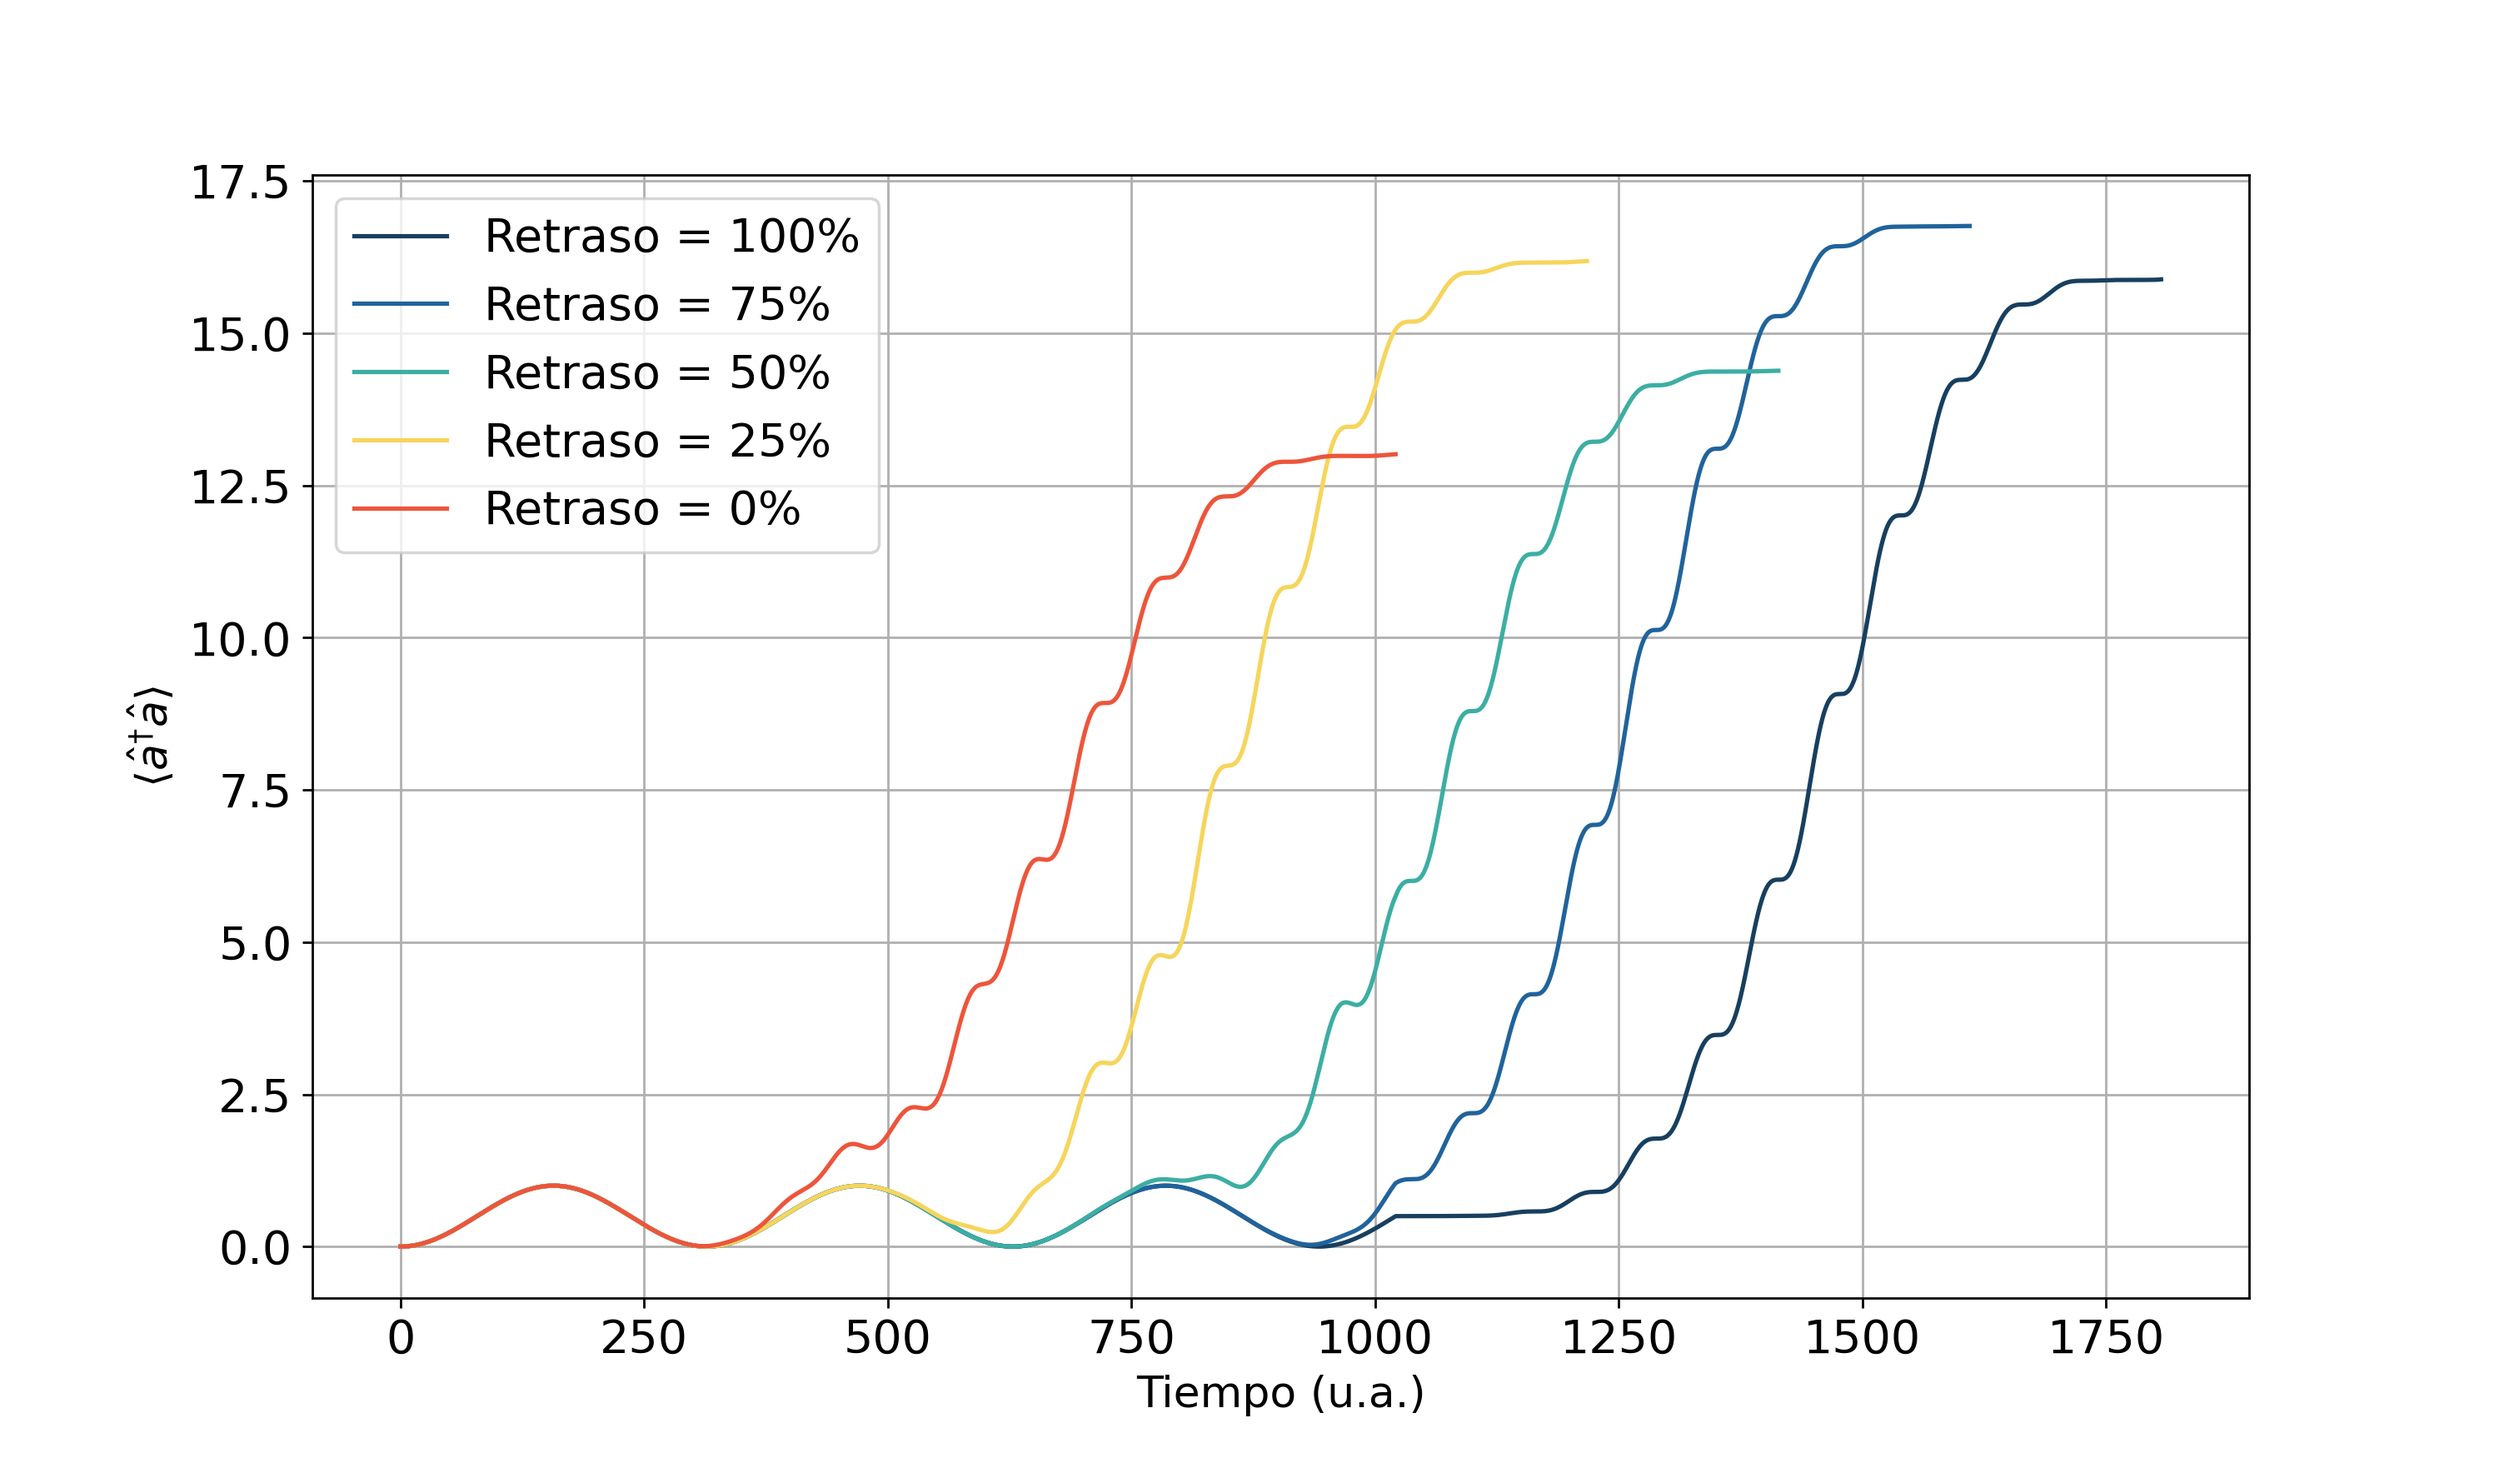
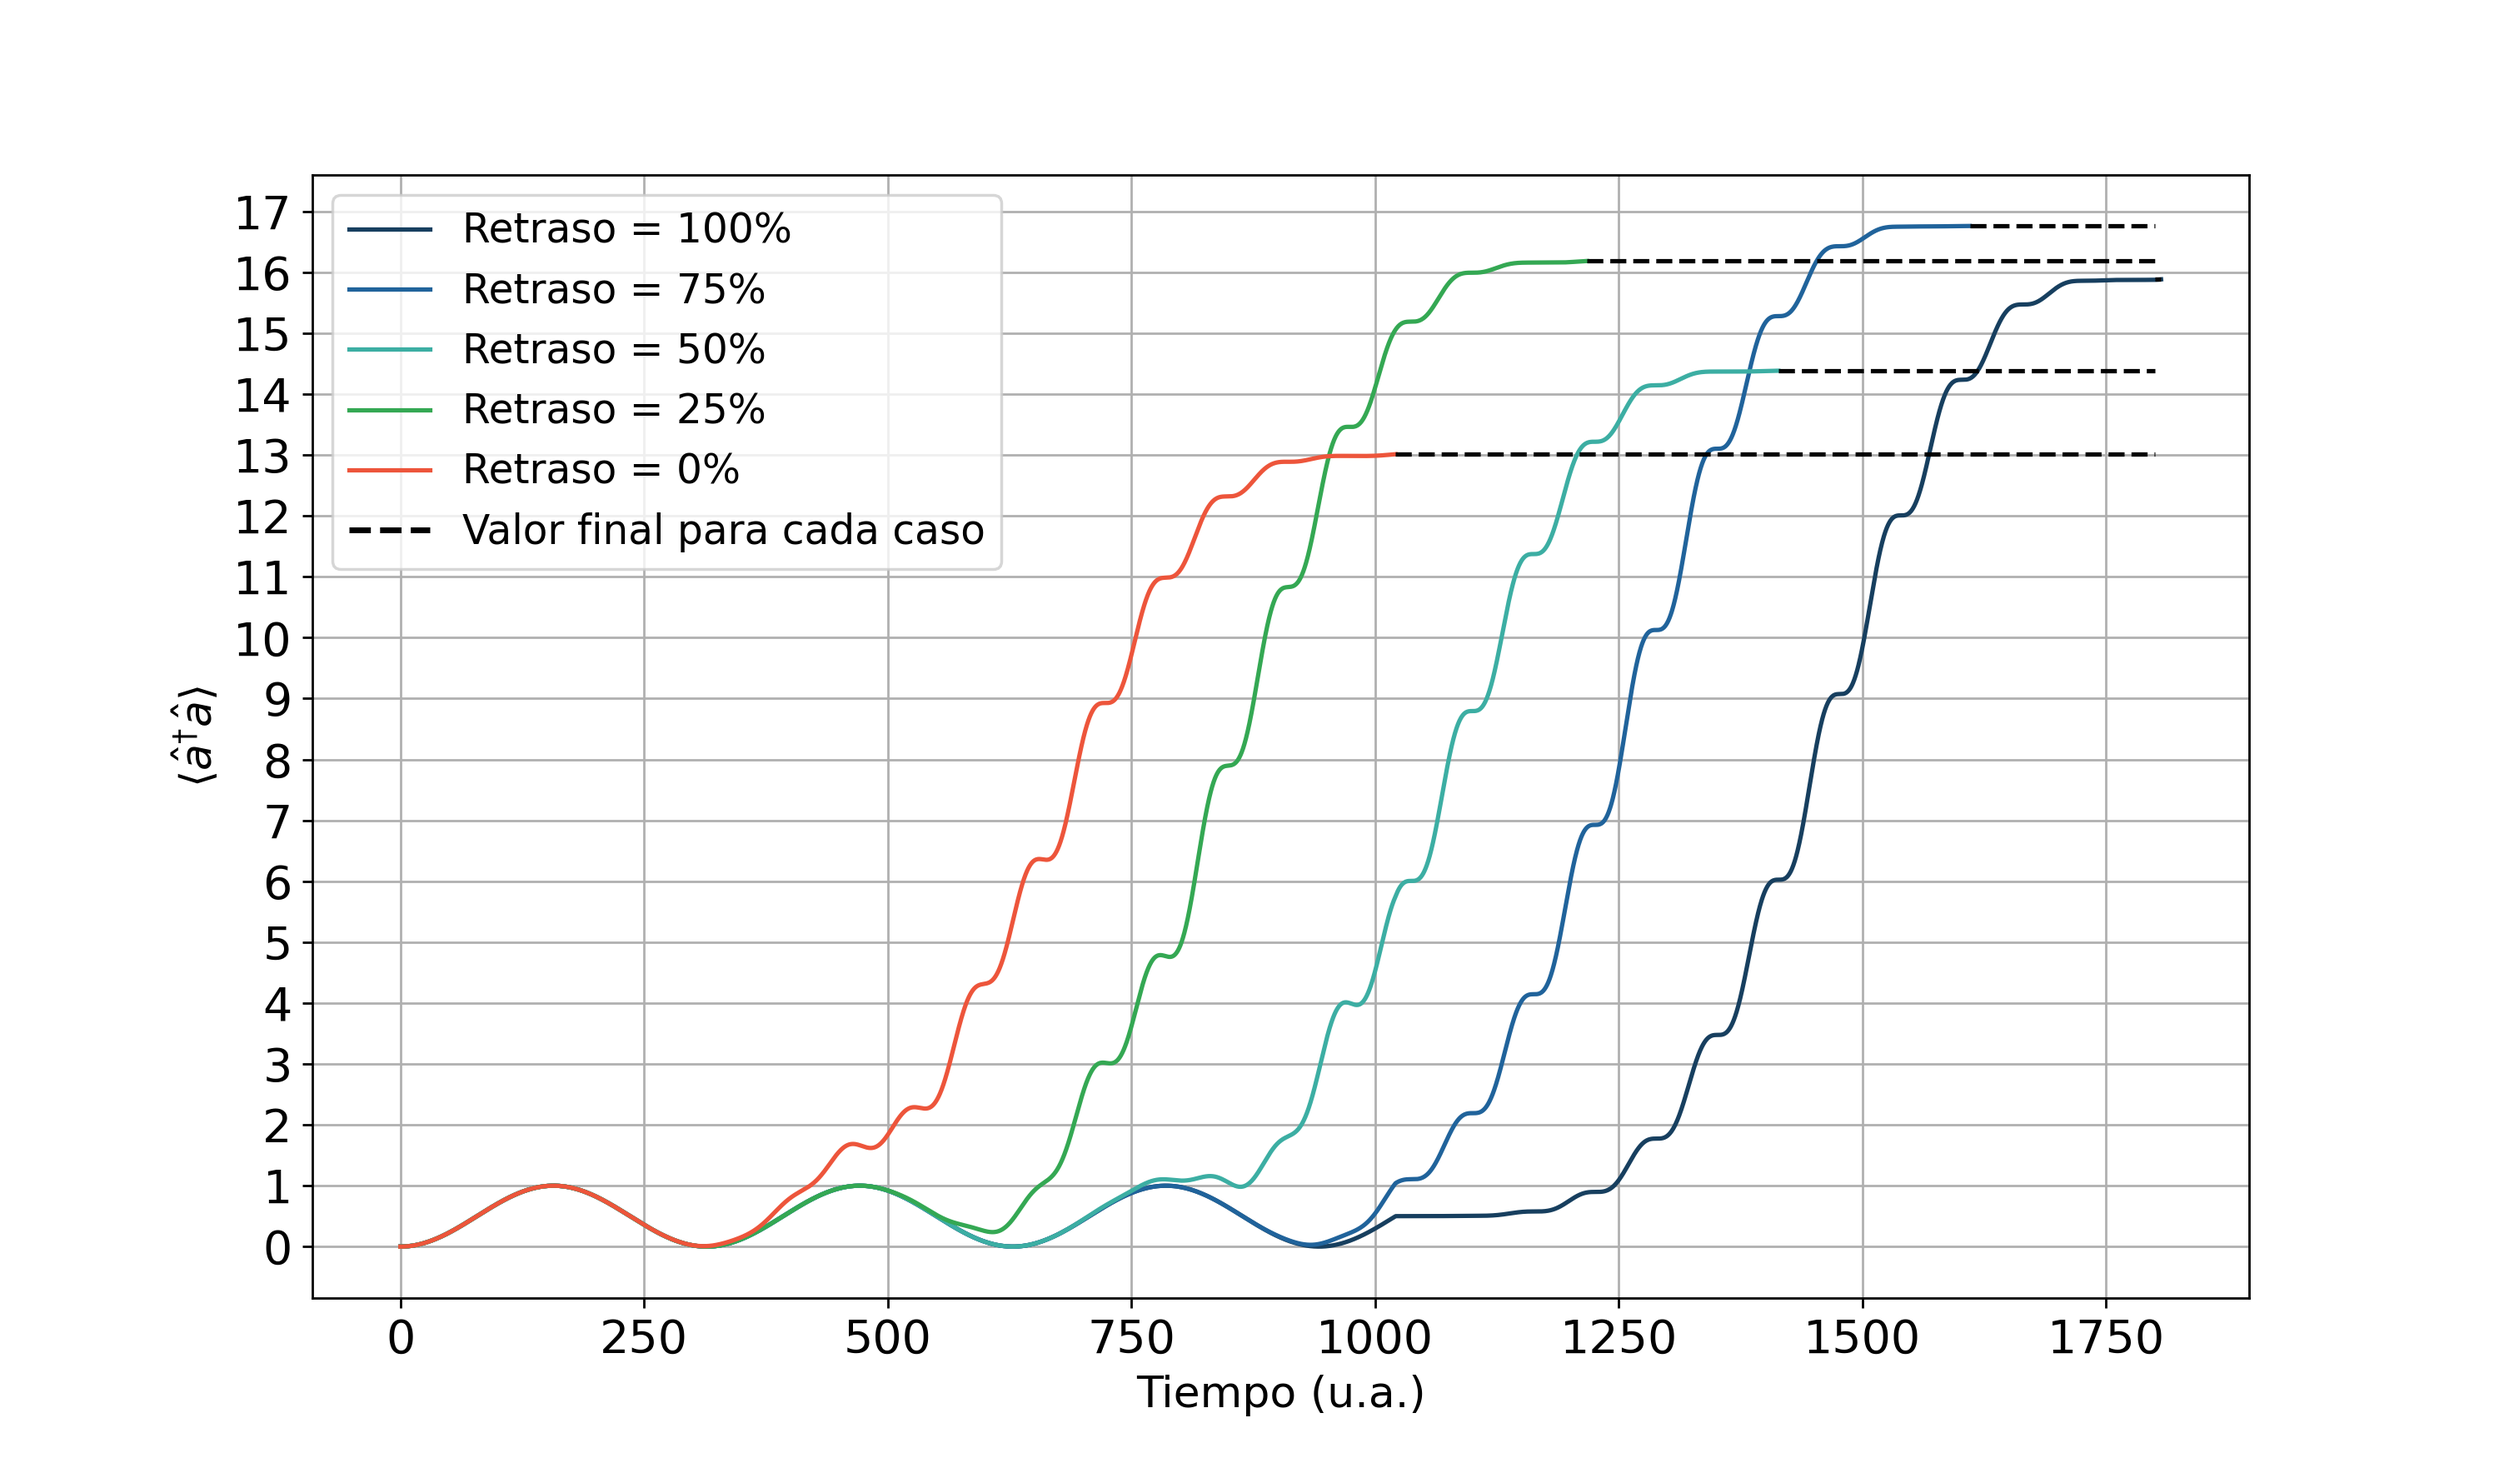
Hoy se envió la tesis a revisión.

diff --git a/execute_retraso_negative.py b/execute_retraso_negative.py
@@ -44,7 +44,7 @@ for i, retraso in enumerate([retraso1, retraso2, retraso3, retraso4, retraso5]):
     axs[i].text(0, 0.90,  chr(65 + i) + ")", transform=axs[i].transAxes, size=20, weight='bold')
     axs[i].plot(retraso[0], retraso[1], label=r'$\langle \hat{\sigma}_{3} \rangle$', color="#EF767A", lw=2.5)
     axs[i].plot(retraso[0], retraso[3] * 50, label=r'$\lambda (t)$', color='black', lw=3)
-    axs[i].plot(retraso[0], retraso[4] * 25, label="pulso", color="#C70039", lw=2)
+    axs[i].plot(retraso[0], retraso[4] * 25, label="pulso", color="#456990", lw=2)
     axs[i].tick_params(axis='y', labelsize=18)
     axs[i].legend(fontsize=18)
     axs[i].grid()
@@ -58,8 +58,8 @@ for i, retraso in enumerate([retraso1, retraso2, retraso3, retraso4, retraso5]):
 
     # Etiquetas en x solo para el último subplot
     if i == 4:
-         axs[i].plot(retraso[0], retraso[1], label=r'$\langle \hat{\sigma}_{3} \rangle$ Analítico', color="blue", lw=0.75)
-         axs[i].legend(fontsize=18, loc='center')
+         axs[i].plot(retraso[0], retraso[1], label=r'$\langle \hat{\sigma}_{3} \rangle$ Analítico', color="blue", lw=0.5)
+         axs[i].legend(fontsize=18, loc='lower left')
 
 # Unificar leyendas
 handles, labels = axs[0].get_legend_handles_labels()
@@ -81,13 +81,22 @@ plt.grid()
 plt.plot(retraso5[0], retraso5[2], label="Retraso = 100%",color='#173F5F')
 plt.plot(retraso4[0], retraso4[2], label="Retraso = 75%",color='#20639B')
 plt.plot(retraso3[0], retraso3[2], label="Retraso = 50%",color='#3CAEA3')
-plt.plot(retraso2[0], retraso2[2], label="Retraso = 25%",color='#F6D55C')
+plt.plot(retraso2[0], retraso2[2], label="Retraso = 25%",color='#34A853')
 plt.plot(retraso1[0], retraso1[2], label="Retraso = 0%",color='#ED553B')
 plt.xlabel('Tiempo (u.a.)',fontsize=15)
 plt.ylabel(r'$\langle \hat{a}^{\dagger}\hat{a} \rangle$',fontsize=15)
 plt.legend(fontsize=16)
 plt.xticks(fontsize=16)
 plt.yticks(fontsize=16)
+plt.hlines(retraso1[2][-1], retraso1[0][-1], 1800, linestyles='dashed', colors='black')
+plt.hlines(retraso2[2][-1], retraso2[0][-1], 1800, linestyles='dashed', colors='black')
+plt.hlines(retraso3[2][-1], retraso3[0][-1], 1800, linestyles='dashed', colors='black')
+plt.hlines(retraso4[2][-1], retraso4[0][-1], 1800, linestyles='dashed', colors='black')
+plt.hlines(retraso5[2][-1], retraso5[0][-1], 1800, linestyles='dashed', colors='black')
+plt.yticks(np.arange(0, 18, 1))
+#Quiero un solo legend para las lineas punteadas
+plt.plot([], [], 'k--', label='Valor final para cada caso', lw=2)
+plt.legend(fontsize=14)
 plt.savefig('Aver_minus.png', dpi=250)
 
 plt.show()

diff --git a/execute_retraso_negative_3_casos.py b/execute_retraso_negative_3_casos.py
@@ -83,9 +83,9 @@ plt.show()
 plt.figure(figsize=(12,7))
 plt.grid()
 #plt.title("Inversion de poblacion y numero promedio de fotones",fontsize=20)
-plt.plot(retraso1[0], retraso1[2], label="Terminando en |e>",color='#3CAEA3')
-plt.plot(retraso2[0], retraso2[2], label="Terminando en |g>",color='black')
-plt.plot(retraso3[0], retraso3[2], label=r'$\frac{1}{\sqrt{2}}(|e\rangle + |g\rangle)$',color='#ED553B')
+plt.plot(retraso1[0], retraso1[2], label="Terminando en |e,0>",color='#3CAEA3')
+plt.plot(retraso2[0], retraso2[2], label="Terminando en |g,1>",color='black')
+plt.plot(retraso3[0], retraso3[2], label=r'$\frac{1}{\sqrt{2}}(|e,0\rangle + |g,1\rangle)$',color='#ED553B')
 #Quiero poner más stickers en el eje y, desde 0 hsta 18, de 1 en 1
 plt.yticks(np.arange(0, 18, 1))
 plt.xlabel('Tiempo (u.a.)',fontsize=15)
